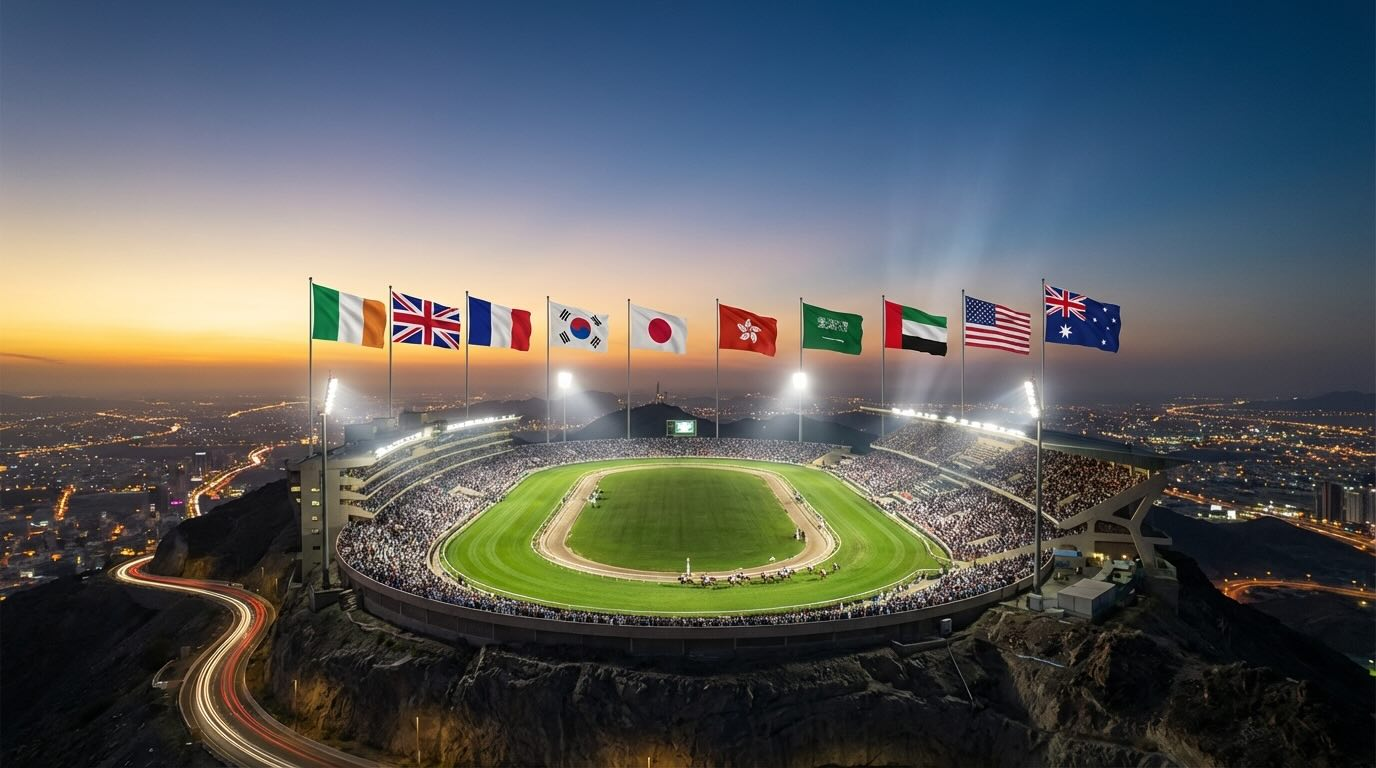
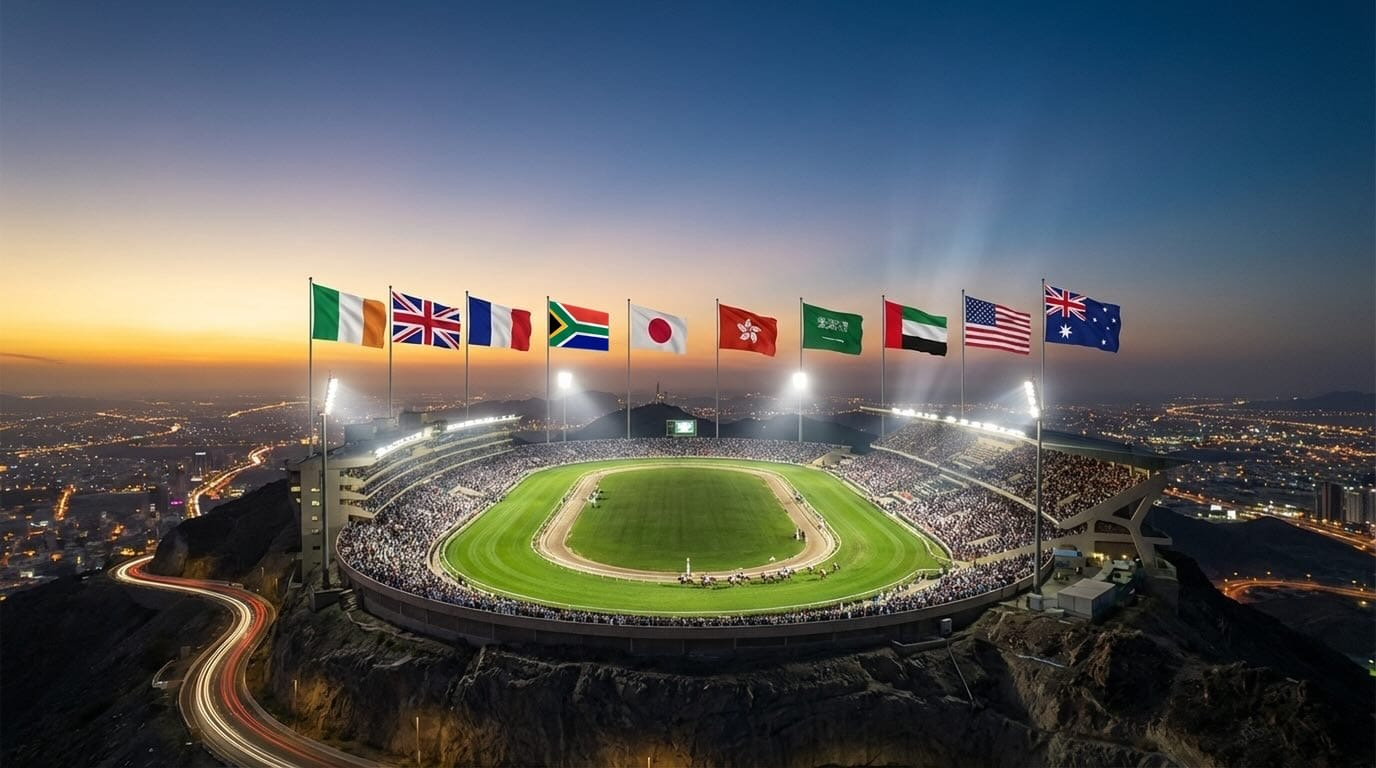
Swap homepage hero image; use hello@galoprix.com on test pages
- Galoprix.jpeg replaced with the updated stadium image (South Africa
  flag replaces South Korea). Used by the homepage hero and share cards.
- investor-test and investor-test-2: every darragh@galoprix.com link and
  label is now hello@galoprix.com. /investors is unchanged.

Claude-Session: https://claude.ai/code/session_016PRqPxt2KLjNQjbk8w6j8T

Changed region(s): [[0.375, 0.375, 0.4688, 0.4688], [0.75, 0.375, 0.7812, 0.4062], [0.2812, 0.375, 0.3125, 0.4062]]

diff --git a/investor-test-2/index.html b/investor-test-2/index.html
@@ -201,14 +201,14 @@ a{color:#92F8BA;text-decoration:none}a:hover{color:#C9FCDD}
       <button type="submit">Enter</button>
     </form>
     <p class="gate-error" id="gate-error" hidden>That access code didn't match. Please try again.</p>
-    <p class="gate-help">Need access? <a href="mailto:darragh@galoprix.com">darragh@galoprix.com</a></p>
+    <p class="gate-help">Need access? <a href="mailto:hello@galoprix.com">hello@galoprix.com</a></p>
   </div>
 </div>
 
 <div class="site">
 
 
-<div style="background: rgb(1, 1, 37); color: rgb(255, 255, 255); font-family: Sora, system-ui, sans-serif; line-height: 1.5;"><div style="max-width: 1160px; margin: 0px auto; padding: 0px 32px; box-sizing: border-box;"><header style="display: flex; flex-wrap: wrap; justify-content: space-between; align-items: center; gap: 12px 24px; padding: 24px 0px;"><div style="font-family: Boldonse, Sora, sans-serif; font-size: 16px; letter-spacing: 0.04em;">GALOPRIX</div><div style="display: flex; align-items: center; gap: 24px; font-size: 13px;"><span style="color: rgb(180, 186, 208);">Session active</span><a href="#" class="req" id="logout">Log out</a></div></header><section style="padding: 72px 0px 56px;"><div style="font-size: 13px; font-weight: 600; letter-spacing: 0.14em; text-transform: uppercase; color: rgb(146, 248, 186);">Investor Data Room</div><h1 style="margin: 20px 0px 0px; font-family: Boldonse, Sora, sans-serif; font-weight: 400; font-size: clamp(28px, 4.4vw, 52px); line-height: 1.5; max-width: 900px;">The investment case for a ten-nation racing championship.</h1><p style="margin: 28px 0px 0px; max-width: 680px; font-size: 16px; font-weight: 300; color: rgb(180, 186, 208);">This data room is confidential and is shared under NDA with qualified investors. The seven core documents are open below, and supporting documents and detailed models are available on request.</p><div style="display: flex; flex-wrap: wrap; gap: 16px 56px; margin-top: 44px; align-items: flex-end;"><div><div style="font-size: 40px; font-weight: 600; color: rgb(146, 248, 186); line-height: 1;">7</div><div style="font-size: 13px; color: rgb(180, 186, 208); margin-top: 8px;">Core documents</div></div><div><div style="font-size: 40px; font-weight: 600; line-height: 1;">21</div><div style="font-size: 13px; color: rgb(180, 186, 208); margin-top: 8px;">Available on request</div></div><div style="margin-left: auto; font-size: 13px;"><span style="color: rgb(180, 186, 208);">Contact </span><a href="mailto:darragh@galoprix.com" class="req">darragh@galoprix.com</a></div></div><nav aria-label="Jump to" style="display: flex; flex-wrap: wrap; gap: 12px; margin-top: 36px;"><a href="#core" style="display: inline-flex; align-items: center; min-height: 44px; padding: 0px 18px; border: 1px solid rgb(42, 47, 107); border-radius: 999px; font-size: 13px; font-weight: 600;">01 Core Documents</a><a href="#on-request" style="display: inline-flex; align-items: center; min-height: 44px; padding: 0px 18px; border: 1px solid rgb(42, 47, 107); border-radius: 999px; font-size: 13px; font-weight: 600;">02 On Request</a></nav></section><section id="core" style="padding: 40px 0px 24px;"><div style="font-size: 13px; font-weight: 600; letter-spacing: 0.14em; text-transform: uppercase; color: rgb(146, 248, 186);">01</div><h2 style="margin: 8px 0px 0px; font-size: 30px; font-weight: 600;">Core Documents</h2><p style="margin: 10px 0px 28px; max-width: 620px; font-size: 15px; font-weight: 300; color: rgb(180, 186, 208);">These seven documents set out the case for Galoprix and are best read in the order shown.</p><div class="doc"><div style="flex: 0 0 64px; font-size: 28px; font-weight: 600; color: rgb(146, 248, 186);">01</div><div style="flex: 1 1 380px; min-width: 0px;"><div style="font-size: 19px; font-weight: 600;">Executive Teaser</div><div style="font-size: 14px; font-weight: 300; color: rgb(180, 186, 208); margin-top: 4px;">A short introduction to Galoprix, why the timing is right and what the seed round is raising.</div></div><div style="font-size: 12px; font-weight: 600; letter-spacing: 0.1em; color: rgb(180, 186, 208);">PDF</div><span class="open pending" aria-disabled="true">Link pending</span></div><div class="doc"><div style="flex: 0 0 64px; font-size: 28px; font-weight: 600; color: rgb(146, 248, 186);">02</div><div style="flex: 1 1 380px; min-width: 0px;"><div style="font-size: 19px; font-weight: 600;">Investor Presentation</div><div style="font-size: 14px; font-weight: 300; color: rgb(180, 186, 208); margin-top: 4px;">The full pitch, from the gap in racing and the championship format to the ownership model and launch plan.</div></div><div style="font-size: 12px; font-weight: 600; letter-spacing: 0.1em; color: rgb(180, 186, 208);">PDF</div><span class="open pending" aria-disabled="true">Link pending</span></div><div class="doc"><div style="flex: 0 0 64px; font-size: 28px; font-weight: 600; color: rgb(146, 248, 186);">03</div><div style="flex: 1 1 380px; min-width: 0px;"><div style="font-size: 19px; font-weight: 600;">Team &amp; Advisers</div><div style="font-size: 14px; font-weight: 300; color: rgb(180, 186, 208); margin-top: 4px;">The founder and advisers behind Galoprix, and the experience each of them brings.</div></div><div style="font-size: 12px; font-weight: 600; letter-spacing: 0.1em; color: rgb(180, 186, 208);">PDF</div><span class="open pending" aria-disabled="true">Link pending</span></div><div class="doc"><div style="flex: 0 0 64px; font-size: 28px; font-weight: 600; color: rgb(146, 248, 186);">04</div><div style="flex: 1 1 380px; min-width: 0px;"><div style="font-size: 19px; font-weight: 600;">Financial Snapshot</div><div style="font-size: 14px; font-weight: 300; color: rgb(180, 186, 208); margin-top: 4px;">The first five seasons in figures, showing how the plan is funded, where revenue comes from and what the championship costs to run.</div></div><div style="font-size: 12px; font-weight: 600; letter-spacing: 0.1em; color: rgb(180, 186, 208);">PDF</div><span class="open pending" aria-disabled="true">Link pending</span></div><div class="doc"><div style="flex: 0 0 64px; font-size: 28px; font-weight: 600; color: rgb(146, 248, 186);">05</div><div style="flex: 1 1 380px; min-width: 0px;"><div style="font-size: 19px; font-weight: 600;">Use of Funds</div><div style="font-size: 14px; font-weight: 300; color: rgb(180, 186, 208); margin-top: 4px;">How the seed capital will be spent and the milestones it is expected to reach.</div></div><div style="font-size: 12px; font-weight: 600; letter-spacing: 0.1em; color: rgb(180, 186, 208);">PDF</div><span class="open pending" aria-disabled="true">Link pending</span></div><div class="doc"><div style="flex: 0 0 64px; font-size: 28px; font-weight: 600; color: rgb(146, 248, 186);">06</div><div style="flex: 1 1 380px; min-width: 0px;"><div style="font-size: 19px; font-weight: 600;">Team Ownership Model</div><div style="font-size: 14px; font-weight: 300; color: rgb(180, 186, 208); margin-top: 4px;">How Nation Team ownership works, including what an owner pays and what they receive.</div></div><div style="font-size: 12px; font-weight: 600; letter-spacing: 0.1em; color: rgb(180, 186, 208);">PDF</div><span class="open pending" aria-disabled="true">Link pending</span></div><div class="doc" style="border-bottom: 1px solid rgb(28, 32, 80);"><div style="flex: 0 0 64px; font-size: 28px; font-weight: 600; color: rgb(146, 248, 186);">07</div><div style="flex: 1 1 380px; min-width: 0px;"><div style="font-size: 19px; font-weight: 600;">Investor FAQ</div><div style="font-size: 14px; font-weight: 300; color: rgb(180, 186, 208); margin-top: 4px;">Answers to the questions an investor is likely to ask during diligence.</div></div><div style="font-size: 12px; font-weight: 600; letter-spacing: 0.1em; color: rgb(180, 186, 208);">PDF</div><span class="open pending" aria-disabled="true">Link pending</span></div></section><section id="on-request" style="padding: 64px 0px 40px;"><div style="font-size: 13px; font-weight: 600; letter-spacing: 0.14em; text-transform: uppercase; color: rgb(146, 248, 186);">02</div><h2 style="margin: 8px 0px 0px; font-size: 30px; font-weight: 600;">On Request</h2><p style="margin: 10px 0px 32px; max-width: 620px; font-size: 15px; font-weight: 300; color: rgb(180, 186, 208);">Supporting documents and detailed models are shared individually with qualified investors. Request any item below and we will send it to you.</p><div style="display: grid; grid-template-columns: repeat(auto-fit, minmax(300px, 1fr)); gap: 24px; align-items: start;"><div style="background: rgb(8, 10, 51); border-radius: 14px; padding: 24px 24px 8px;"><h3 style="margin: 0px 0px 16px; font-size: 13px; font-weight: 600; letter-spacing: 0.1em; text-transform: uppercase; color: rgb(146, 248, 186);">Financial model</h3><div class="row"><span>Financial Model. Seed Summary</span><a href="mailto:darragh@galoprix.com?subject=Data%20Room%20request%3A%20Financial%20Model.%20Seed%20Summary" class="req">Request</a></div><h3 style="margin: 28px 0px 16px; font-size: 13px; font-weight: 600; letter-spacing: 0.1em; text-transform: uppercase; color: rgb(146, 248, 186);">The business</h3><div class="row"><span>Business Model</span><a href="mailto:darragh@galoprix.com?subject=Data%20Room%20request%3A%20Business%20Model" class="req">Request</a></div><div class="row"><span>Roadmap to Launch</span><a href="mailto:darragh@galoprix.com?subject=Data%20Room%20request%3A%20Roadmap%20to%20Launch" class="req">Request</a></div><div class="row"><span>Owner Prize Structure</span><a href="mailto:darragh@galoprix.com?subject=Data%20Room%20request%3A%20Owner%20Prize%20Structure" class="req">Request</a></div><div class="row"><span>Athlete Prize Structure</span><a href="mailto:darragh@galoprix.com?subject=Data%20Room%20request%3A%20Athlete%20Prize%20Structure" class="req">Request</a></div></div><div style="background: rgb(8, 10, 51); border-radius: 14px; padding: 24px 24px 8px;"><h3 style="margin: 0px 0px 16px; font-size: 13px; font-weight: 600; letter-spacing: 0.1em; text-transform: uppercase; color: rgb(146, 248, 186);">Market, fans &amp; welfare</h3><div class="row"><span>Fan Engagement &amp; Brand Strategy</span><a href="mailto:darragh@galoprix.com?subject=Data%20Room%20request%3A%20Fan%20Engagement%20%26%20Brand%20Strategy" class="req">Request</a></div><div class="row"><span>Macro Environment Brief</span><a href="mailto:darragh@galoprix.com?subject=Data%20Room%20request%3A%20Macro%20Environment%20Brief" class="req">Request</a></div><div class="row"><span>Competitive Landscape</span><a href="mailto:darragh@galoprix.com?subject=Data%20Room%20request%3A%20Competitive%20Landscape" class="req">Request</a></div><div class="row"><span>Welfare Framework</span><a href="mailto:darragh@galoprix.com?subject=Data%20Room%20request%3A%20Welfare%20Framework" class="req">Request</a></div><h3 style="margin: 28px 0px 16px; font-size: 13px; font-weight: 600; letter-spacing: 0.1em; text-transform: uppercase; color: rgb(146, 248, 186);">Wagering, IP &amp; risk</h3><div class="row"><span>Wagering Architecture &amp; Data Rights</span><a href="mailto:darragh@galoprix.com?subject=Data%20Room%20request%3A%20Wagering%20Architecture%20%26%20Data%20Rights" class="req">Request</a></div><div class="row"><span>AML &amp; Responsible Gambling Framework</span><a href="mailto:darragh@galoprix.com?subject=Data%20Room%20request%3A%20AML%20%26%20Responsible%20Gambling%20Framework" class="req">Request</a></div><div class="row"><span>IP Protection Strategy</span><a href="mailto:darragh@galoprix.com?subject=Data%20Room%20request%3A%20IP%20Protection%20Strategy" class="req">Request</a></div><div class="row"><span>Risk Register</span><a href="mailto:darragh@galoprix.com?subject=Data%20Room%20request%3A%20Risk%20Register" class="req">Request</a></div></div><div style="background: rgb(8, 10, 51); border-radius: 14px; padding: 24px 24px 8px;"><h3 style="margin: 0px 0px 16px; font-size: 13px; font-weight: 600; letter-spacing: 0.1em; text-transform: uppercase; color: rgb(146, 248, 186);">Detailed models &amp; analysis</h3><div class="row"><span>Nation Scoring Matrix</span><a href="mailto:darragh@galoprix.com?subject=Data%20Room%20request%3A%20Nation%20Scoring%20Matrix" class="req">Request</a></div><div class="row"><span>Venue Analysis &amp; Weighting</span><a href="mailto:darragh@galoprix.com?subject=Data%20Room%20request%3A%20Venue%20Analysis%20%26%20Weighting" class="req">Request</a></div><div class="row"><span>Fixture Acquisition Strategy</span><a href="mailto:darragh@galoprix.com?subject=Data%20Room%20request%3A%20Fixture%20Acquisition%20Strategy" class="req">Request</a></div><div class="row"><span>Pattern Race Elevation Roadmap</span><a href="mailto:darragh@galoprix.com?subject=Data%20Room%20request%3A%20Pattern%20Race%20Elevation%20Roadmap" class="req">Request</a></div><div class="row"><span>Investor Operational Matrix (all nations)</span><a href="mailto:darragh@galoprix.com?subject=Data%20Room%20request%3A%20Investor%20Operational%20Matrix%20(all%20nations)" class="req">Request</a></div><div class="row"><span>Sponsorship Revenue Model</span><a href="mailto:darragh@galoprix.com?subject=Data%20Room%20request%3A%20Sponsorship%20Revenue%20Model" class="req">Request</a></div><div class="row"><span>Wagering Revenue Model</span><a href="mailto:darragh@galoprix.com?subject=Data%20Room%20request%3A%20Wagering%20Revenue%20Model" class="req">Request</a></div><div class="row"><span>Jockey Eligibility Framework</span><a href="mailto:darragh@galoprix.com?subject=Data%20Room%20request%3A%20Jockey%20Eligibility%20Framework" class="req">Request</a></div></div></div></section><footer style="display: flex; flex-wrap: wrap; gap: 32px 64px; padding: 48px 0px 56px; margin-top: 40px; border-top: 1px solid rgb(28, 32, 80); font-size: 13px; font-weight: 300; color: rgb(180, 186, 208);"><div style="flex: 2 1 360px; min-width: 0px;"><div style="font-weight: 600; color: rgb(255, 255, 255); margin-bottom: 8px;">Confidentiality</div>The contents of this data room are confidential and are provided solely for the purpose of evaluating a potential investment in Galoprix Global Ventures Limited. Materials may not be reproduced, redistributed or disclosed to any third party without prior written consent.</div><div style="flex: 1 1 200px;"><div style="font-weight: 600; color: rgb(255, 255, 255); margin-bottom: 8px;">Entity</div>Galoprix Global Ventures Limited<br>Registered in England &amp; Wales<br>Co. No. 17103998<br>London</div><div style="flex: 1 1 200px;"><div style="font-weight: 600; color: rgb(255, 255, 255); margin-bottom: 8px;">Contact</div><a href="mailto:darragh@galoprix.com">darragh@galoprix.com</a><div style="margin-top: 20px;">© 2026 Galoprix Global Ventures Limited. All rights reserved.</div><div>Built By Porter Wills</div></div></footer></div></div>
+<div style="background: rgb(1, 1, 37); color: rgb(255, 255, 255); font-family: Sora, system-ui, sans-serif; line-height: 1.5;"><div style="max-width: 1160px; margin: 0px auto; padding: 0px 32px; box-sizing: border-box;"><header style="display: flex; flex-wrap: wrap; justify-content: space-between; align-items: center; gap: 12px 24px; padding: 24px 0px;"><div style="font-family: Boldonse, Sora, sans-serif; font-size: 16px; letter-spacing: 0.04em;">GALOPRIX</div><div style="display: flex; align-items: center; gap: 24px; font-size: 13px;"><span style="color: rgb(180, 186, 208);">Session active</span><a href="#" class="req" id="logout">Log out</a></div></header><section style="padding: 72px 0px 56px;"><div style="font-size: 13px; font-weight: 600; letter-spacing: 0.14em; text-transform: uppercase; color: rgb(146, 248, 186);">Investor Data Room</div><h1 style="margin: 20px 0px 0px; font-family: Boldonse, Sora, sans-serif; font-weight: 400; font-size: clamp(28px, 4.4vw, 52px); line-height: 1.5; max-width: 900px;">The investment case for a ten-nation racing championship.</h1><p style="margin: 28px 0px 0px; max-width: 680px; font-size: 16px; font-weight: 300; color: rgb(180, 186, 208);">This data room is confidential and is shared under NDA with qualified investors. The seven core documents are open below, and supporting documents and detailed models are available on request.</p><div style="display: flex; flex-wrap: wrap; gap: 16px 56px; margin-top: 44px; align-items: flex-end;"><div><div style="font-size: 40px; font-weight: 600; color: rgb(146, 248, 186); line-height: 1;">7</div><div style="font-size: 13px; color: rgb(180, 186, 208); margin-top: 8px;">Core documents</div></div><div><div style="font-size: 40px; font-weight: 600; line-height: 1;">21</div><div style="font-size: 13px; color: rgb(180, 186, 208); margin-top: 8px;">Available on request</div></div><div style="margin-left: auto; font-size: 13px;"><span style="color: rgb(180, 186, 208);">Contact </span><a href="mailto:hello@galoprix.com" class="req">hello@galoprix.com</a></div></div><nav aria-label="Jump to" style="display: flex; flex-wrap: wrap; gap: 12px; margin-top: 36px;"><a href="#core" style="display: inline-flex; align-items: center; min-height: 44px; padding: 0px 18px; border: 1px solid rgb(42, 47, 107); border-radius: 999px; font-size: 13px; font-weight: 600;">01 Core Documents</a><a href="#on-request" style="display: inline-flex; align-items: center; min-height: 44px; padding: 0px 18px; border: 1px solid rgb(42, 47, 107); border-radius: 999px; font-size: 13px; font-weight: 600;">02 On Request</a></nav></section><section id="core" style="padding: 40px 0px 24px;"><div style="font-size: 13px; font-weight: 600; letter-spacing: 0.14em; text-transform: uppercase; color: rgb(146, 248, 186);">01</div><h2 style="margin: 8px 0px 0px; font-size: 30px; font-weight: 600;">Core Documents</h2><p style="margin: 10px 0px 28px; max-width: 620px; font-size: 15px; font-weight: 300; color: rgb(180, 186, 208);">These seven documents set out the case for Galoprix and are best read in the order shown.</p><div class="doc"><div style="flex: 0 0 64px; font-size: 28px; font-weight: 600; color: rgb(146, 248, 186);">01</div><div style="flex: 1 1 380px; min-width: 0px;"><div style="font-size: 19px; font-weight: 600;">Executive Teaser</div><div style="font-size: 14px; font-weight: 300; color: rgb(180, 186, 208); margin-top: 4px;">A short introduction to Galoprix, why the timing is right and what the seed round is raising.</div></div><div style="font-size: 12px; font-weight: 600; letter-spacing: 0.1em; color: rgb(180, 186, 208);">PDF</div><span class="open pending" aria-disabled="true">Link pending</span></div><div class="doc"><div style="flex: 0 0 64px; font-size: 28px; font-weight: 600; color: rgb(146, 248, 186);">02</div><div style="flex: 1 1 380px; min-width: 0px;"><div style="font-size: 19px; font-weight: 600;">Investor Presentation</div><div style="font-size: 14px; font-weight: 300; color: rgb(180, 186, 208); margin-top: 4px;">The full pitch, from the gap in racing and the championship format to the ownership model and launch plan.</div></div><div style="font-size: 12px; font-weight: 600; letter-spacing: 0.1em; color: rgb(180, 186, 208);">PDF</div><span class="open pending" aria-disabled="true">Link pending</span></div><div class="doc"><div style="flex: 0 0 64px; font-size: 28px; font-weight: 600; color: rgb(146, 248, 186);">03</div><div style="flex: 1 1 380px; min-width: 0px;"><div style="font-size: 19px; font-weight: 600;">Team &amp; Advisers</div><div style="font-size: 14px; font-weight: 300; color: rgb(180, 186, 208); margin-top: 4px;">The founder and advisers behind Galoprix, and the experience each of them brings.</div></div><div style="font-size: 12px; font-weight: 600; letter-spacing: 0.1em; color: rgb(180, 186, 208);">PDF</div><span class="open pending" aria-disabled="true">Link pending</span></div><div class="doc"><div style="flex: 0 0 64px; font-size: 28px; font-weight: 600; color: rgb(146, 248, 186);">04</div><div style="flex: 1 1 380px; min-width: 0px;"><div style="font-size: 19px; font-weight: 600;">Financial Snapshot</div><div style="font-size: 14px; font-weight: 300; color: rgb(180, 186, 208); margin-top: 4px;">The first five seasons in figures, showing how the plan is funded, where revenue comes from and what the championship costs to run.</div></div><div style="font-size: 12px; font-weight: 600; letter-spacing: 0.1em; color: rgb(180, 186, 208);">PDF</div><span class="open pending" aria-disabled="true">Link pending</span></div><div class="doc"><div style="flex: 0 0 64px; font-size: 28px; font-weight: 600; color: rgb(146, 248, 186);">05</div><div style="flex: 1 1 380px; min-width: 0px;"><div style="font-size: 19px; font-weight: 600;">Use of Funds</div><div style="font-size: 14px; font-weight: 300; color: rgb(180, 186, 208); margin-top: 4px;">How the seed capital will be spent and the milestones it is expected to reach.</div></div><div style="font-size: 12px; font-weight: 600; letter-spacing: 0.1em; color: rgb(180, 186, 208);">PDF</div><span class="open pending" aria-disabled="true">Link pending</span></div><div class="doc"><div style="flex: 0 0 64px; font-size: 28px; font-weight: 600; color: rgb(146, 248, 186);">06</div><div style="flex: 1 1 380px; min-width: 0px;"><div style="font-size: 19px; font-weight: 600;">Team Ownership Model</div><div style="font-size: 14px; font-weight: 300; color: rgb(180, 186, 208); margin-top: 4px;">How Nation Team ownership works, including what an owner pays and what they receive.</div></div><div style="font-size: 12px; font-weight: 600; letter-spacing: 0.1em; color: rgb(180, 186, 208);">PDF</div><span class="open pending" aria-disabled="true">Link pending</span></div><div class="doc" style="border-bottom: 1px solid rgb(28, 32, 80);"><div style="flex: 0 0 64px; font-size: 28px; font-weight: 600; color: rgb(146, 248, 186);">07</div><div style="flex: 1 1 380px; min-width: 0px;"><div style="font-size: 19px; font-weight: 600;">Investor FAQ</div><div style="font-size: 14px; font-weight: 300; color: rgb(180, 186, 208); margin-top: 4px;">Answers to the questions an investor is likely to ask during diligence.</div></div><div style="font-size: 12px; font-weight: 600; letter-spacing: 0.1em; color: rgb(180, 186, 208);">PDF</div><span class="open pending" aria-disabled="true">Link pending</span></div></section><section id="on-request" style="padding: 64px 0px 40px;"><div style="font-size: 13px; font-weight: 600; letter-spacing: 0.14em; text-transform: uppercase; color: rgb(146, 248, 186);">02</div><h2 style="margin: 8px 0px 0px; font-size: 30px; font-weight: 600;">On Request</h2><p style="margin: 10px 0px 32px; max-width: 620px; font-size: 15px; font-weight: 300; color: rgb(180, 186, 208);">Supporting documents and detailed models are shared individually with qualified investors. Request any item below and we will send it to you.</p><div style="display: grid; grid-template-columns: repeat(auto-fit, minmax(300px, 1fr)); gap: 24px; align-items: start;"><div style="background: rgb(8, 10, 51); border-radius: 14px; padding: 24px 24px 8px;"><h3 style="margin: 0px 0px 16px; font-size: 13px; font-weight: 600; letter-spacing: 0.1em; text-transform: uppercase; color: rgb(146, 248, 186);">Financial model</h3><div class="row"><span>Financial Model. Seed Summary</span><a href="mailto:hello@galoprix.com?subject=Data%20Room%20request%3A%20Financial%20Model.%20Seed%20Summary" class="req">Request</a></div><h3 style="margin: 28px 0px 16px; font-size: 13px; font-weight: 600; letter-spacing: 0.1em; text-transform: uppercase; color: rgb(146, 248, 186);">The business</h3><div class="row"><span>Business Model</span><a href="mailto:hello@galoprix.com?subject=Data%20Room%20request%3A%20Business%20Model" class="req">Request</a></div><div class="row"><span>Roadmap to Launch</span><a href="mailto:hello@galoprix.com?subject=Data%20Room%20request%3A%20Roadmap%20to%20Launch" class="req">Request</a></div><div class="row"><span>Owner Prize Structure</span><a href="mailto:hello@galoprix.com?subject=Data%20Room%20request%3A%20Owner%20Prize%20Structure" class="req">Request</a></div><div class="row"><span>Athlete Prize Structure</span><a href="mailto:hello@galoprix.com?subject=Data%20Room%20request%3A%20Athlete%20Prize%20Structure" class="req">Request</a></div></div><div style="background: rgb(8, 10, 51); border-radius: 14px; padding: 24px 24px 8px;"><h3 style="margin: 0px 0px 16px; font-size: 13px; font-weight: 600; letter-spacing: 0.1em; text-transform: uppercase; color: rgb(146, 248, 186);">Market, fans &amp; welfare</h3><div class="row"><span>Fan Engagement &amp; Brand Strategy</span><a href="mailto:hello@galoprix.com?subject=Data%20Room%20request%3A%20Fan%20Engagement%20%26%20Brand%20Strategy" class="req">Request</a></div><div class="row"><span>Macro Environment Brief</span><a href="mailto:hello@galoprix.com?subject=Data%20Room%20request%3A%20Macro%20Environment%20Brief" class="req">Request</a></div><div class="row"><span>Competitive Landscape</span><a href="mailto:hello@galoprix.com?subject=Data%20Room%20request%3A%20Competitive%20Landscape" class="req">Request</a></div><div class="row"><span>Welfare Framework</span><a href="mailto:hello@galoprix.com?subject=Data%20Room%20request%3A%20Welfare%20Framework" class="req">Request</a></div><h3 style="margin: 28px 0px 16px; font-size: 13px; font-weight: 600; letter-spacing: 0.1em; text-transform: uppercase; color: rgb(146, 248, 186);">Wagering, IP &amp; risk</h3><div class="row"><span>Wagering Architecture &amp; Data Rights</span><a href="mailto:hello@galoprix.com?subject=Data%20Room%20request%3A%20Wagering%20Architecture%20%26%20Data%20Rights" class="req">Request</a></div><div class="row"><span>AML &amp; Responsible Gambling Framework</span><a href="mailto:hello@galoprix.com?subject=Data%20Room%20request%3A%20AML%20%26%20Responsible%20Gambling%20Framework" class="req">Request</a></div><div class="row"><span>IP Protection Strategy</span><a href="mailto:hello@galoprix.com?subject=Data%20Room%20request%3A%20IP%20Protection%20Strategy" class="req">Request</a></div><div class="row"><span>Risk Register</span><a href="mailto:hello@galoprix.com?subject=Data%20Room%20request%3A%20Risk%20Register" class="req">Request</a></div></div><div style="background: rgb(8, 10, 51); border-radius: 14px; padding: 24px 24px 8px;"><h3 style="margin: 0px 0px 16px; font-size: 13px; font-weight: 600; letter-spacing: 0.1em; text-transform: uppercase; color: rgb(146, 248, 186);">Detailed models &amp; analysis</h3><div class="row"><span>Nation Scoring Matrix</span><a href="mailto:hello@galoprix.com?subject=Data%20Room%20request%3A%20Nation%20Scoring%20Matrix" class="req">Request</a></div><div class="row"><span>Venue Analysis &amp; Weighting</span><a href="mailto:hello@galoprix.com?subject=Data%20Room%20request%3A%20Venue%20Analysis%20%26%20Weighting" class="req">Request</a></div><div class="row"><span>Fixture Acquisition Strategy</span><a href="mailto:hello@galoprix.com?subject=Data%20Room%20request%3A%20Fixture%20Acquisition%20Strategy" class="req">Request</a></div><div class="row"><span>Pattern Race Elevation Roadmap</span><a href="mailto:hello@galoprix.com?subject=Data%20Room%20request%3A%20Pattern%20Race%20Elevation%20Roadmap" class="req">Request</a></div><div class="row"><span>Investor Operational Matrix (all nations)</span><a href="mailto:hello@galoprix.com?subject=Data%20Room%20request%3A%20Investor%20Operational%20Matrix%20(all%20nations)" class="req">Request</a></div><div class="row"><span>Sponsorship Revenue Model</span><a href="mailto:hello@galoprix.com?subject=Data%20Room%20request%3A%20Sponsorship%20Revenue%20Model" class="req">Request</a></div><div class="row"><span>Wagering Revenue Model</span><a href="mailto:hello@galoprix.com?subject=Data%20Room%20request%3A%20Wagering%20Revenue%20Model" class="req">Request</a></div><div class="row"><span>Jockey Eligibility Framework</span><a href="mailto:hello@galoprix.com?subject=Data%20Room%20request%3A%20Jockey%20Eligibility%20Framework" class="req">Request</a></div></div></div></section><footer style="display: flex; flex-wrap: wrap; gap: 32px 64px; padding: 48px 0px 56px; margin-top: 40px; border-top: 1px solid rgb(28, 32, 80); font-size: 13px; font-weight: 300; color: rgb(180, 186, 208);"><div style="flex: 2 1 360px; min-width: 0px;"><div style="font-weight: 600; color: rgb(255, 255, 255); margin-bottom: 8px;">Confidentiality</div>The contents of this data room are confidential and are provided solely for the purpose of evaluating a potential investment in Galoprix Global Ventures Limited. Materials may not be reproduced, redistributed or disclosed to any third party without prior written consent.</div><div style="flex: 1 1 200px;"><div style="font-weight: 600; color: rgb(255, 255, 255); margin-bottom: 8px;">Entity</div>Galoprix Global Ventures Limited<br>Registered in England &amp; Wales<br>Co. No. 17103998<br>London</div><div style="flex: 1 1 200px;"><div style="font-weight: 600; color: rgb(255, 255, 255); margin-bottom: 8px;">Contact</div><a href="mailto:hello@galoprix.com">hello@galoprix.com</a><div style="margin-top: 20px;">© 2026 Galoprix Global Ventures Limited. All rights reserved.</div><div>Built By Porter Wills</div></div></footer></div></div>
 </div>
 <script>
   const ACCESS_CODE = "G4lopr1x";

diff --git a/investor-test/index.html b/investor-test/index.html
@@ -961,7 +961,7 @@
       <button type="submit">Enter</button>
     </form>
     <p class="gate-error" id="gate-error" hidden>That access code didn't match. Please try again.</p>
-    <p class="gate-help">Need access? <a href="mailto:darragh@galoprix.com">darragh@galoprix.com</a></p>
+    <p class="gate-help">Need access? <a href="mailto:hello@galoprix.com">hello@galoprix.com</a></p>
   </div>
 </div>
 
@@ -1001,7 +1001,7 @@
     <div class="contact-inner">
       <span class="label">Contact</span>
       <span class="contact-item">
-        <a href="mailto:darragh@galoprix.com">darragh@galoprix.com</a>
+        <a href="mailto:hello@galoprix.com">hello@galoprix.com</a>
       </span>
     </div>
   </div>
@@ -1044,7 +1044,7 @@
     <div class="cat-rule"></div>
     <h3 class="req-group">Financial model</h3>
     <div class="req-grid">
-      <a class="req-tile" href="mailto:darragh@galoprix.com?subject=Data%20Room%20request%3A%20Financial%20Model.%20Seed%20Summary">
+      <a class="req-tile" href="mailto:hello@galoprix.com?subject=Data%20Room%20request%3A%20Financial%20Model.%20Seed%20Summary">
         <span class="req-num">01</span>
         <span class="req-name">Financial Model. Seed Summary</span>
         <span class="req-cta">Request <span class="arr" aria-hidden="true">↗</span></span>
@@ -1052,22 +1052,22 @@
     </div>
     <h3 class="req-group">The business</h3>
     <div class="req-grid">
-      <a class="req-tile" href="mailto:darragh@galoprix.com?subject=Data%20Room%20request%3A%20Business%20Model">
+      <a class="req-tile" href="mailto:hello@galoprix.com?subject=Data%20Room%20request%3A%20Business%20Model">
         <span class="req-num">02</span>
         <span class="req-name">Business Model</span>
         <span class="req-cta">Request <span class="arr" aria-hidden="true">↗</span></span>
       </a>
-      <a class="req-tile" href="mailto:darragh@galoprix.com?subject=Data%20Room%20request%3A%20Roadmap%20to%20Launch">
+      <a class="req-tile" href="mailto:hello@galoprix.com?subject=Data%20Room%20request%3A%20Roadmap%20to%20Launch">
         <span class="req-num">03</span>
         <span class="req-name">Roadmap to Launch</span>
         <span class="req-cta">Request <span class="arr" aria-hidden="true">↗</span></span>
       </a>
-      <a class="req-tile" href="mailto:darragh@galoprix.com?subject=Data%20Room%20request%3A%20Owner%20Prize%20Structure">
+      <a class="req-tile" href="mailto:hello@galoprix.com?subject=Data%20Room%20request%3A%20Owner%20Prize%20Structure">
         <span class="req-num">04</span>
         <span class="req-name">Owner Prize Structure</span>
         <span class="req-cta">Request <span class="arr" aria-hidden="true">↗</span></span>
       </a>
-      <a class="req-tile" href="mailto:darragh@galoprix.com?subject=Data%20Room%20request%3A%20Athlete%20Prize%20Structure">
+      <a class="req-tile" href="mailto:hello@galoprix.com?subject=Data%20Room%20request%3A%20Athlete%20Prize%20Structure">
         <span class="req-num">05</span>
         <span class="req-name">Athlete Prize Structure</span>
         <span class="req-cta">Request <span class="arr" aria-hidden="true">↗</span></span>
@@ -1075,22 +1075,22 @@
     </div>
     <h3 class="req-group">Market, fans &amp; welfare</h3>
     <div class="req-grid">
-      <a class="req-tile" href="mailto:darragh@galoprix.com?subject=Data%20Room%20request%3A%20Fan%20Engagement%20%26%20Brand%20Strategy">
+      <a class="req-tile" href="mailto:hello@galoprix.com?subject=Data%20Room%20request%3A%20Fan%20Engagement%20%26%20Brand%20Strategy">
         <span class="req-num">06</span>
         <span class="req-name">Fan Engagement &amp; Brand Strategy</span>
         <span class="req-cta">Request <span class="arr" aria-hidden="true">↗</span></span>
       </a>
-      <a class="req-tile" href="mailto:darragh@galoprix.com?subject=Data%20Room%20request%3A%20Macro%20Environment%20Brief">
+      <a class="req-tile" href="mailto:hello@galoprix.com?subject=Data%20Room%20request%3A%20Macro%20Environment%20Brief">
         <span class="req-num">07</span>
         <span class="req-name">Macro Environment Brief</span>
         <span class="req-cta">Request <span class="arr" aria-hidden="true">↗</span></span>
       </a>
-      <a class="req-tile" href="mailto:darragh@galoprix.com?subject=Data%20Room%20request%3A%20Competitive%20Landscape">
+      <a class="req-tile" href="mailto:hello@galoprix.com?subject=Data%20Room%20request%3A%20Competitive%20Landscape">
         <span class="req-num">08</span>
         <span class="req-name">Competitive Landscape</span>
         <span class="req-cta">Request <span class="arr" aria-hidden="true">↗</span></span>
       </a>
-      <a class="req-tile" href="mailto:darragh@galoprix.com?subject=Data%20Room%20request%3A%20Welfare%20Framework">
+      <a class="req-tile" href="mailto:hello@galoprix.com?subject=Data%20Room%20request%3A%20Welfare%20Framework">
         <span class="req-num">09</span>
         <span class="req-name">Welfare Framework</span>
         <span class="req-cta">Request <span class="arr" aria-hidden="true">↗</span></span>
@@ -1098,22 +1098,22 @@
     </div>
     <h3 class="req-group">Wagering, IP &amp; risk</h3>
     <div class="req-grid">
-      <a class="req-tile" href="mailto:darragh@galoprix.com?subject=Data%20Room%20request%3A%20Wagering%20Architecture%20%26%20Data%20Rights">
+      <a class="req-tile" href="mailto:hello@galoprix.com?subject=Data%20Room%20request%3A%20Wagering%20Architecture%20%26%20Data%20Rights">
         <span class="req-num">10</span>
         <span class="req-name">Wagering Architecture &amp; Data Rights</span>
         <span class="req-cta">Request <span class="arr" aria-hidden="true">↗</span></span>
       </a>
-      <a class="req-tile" href="mailto:darragh@galoprix.com?subject=Data%20Room%20request%3A%20AML%20%26%20Responsible%20Gambling%20Framework">
+      <a class="req-tile" href="mailto:hello@galoprix.com?subject=Data%20Room%20request%3A%20AML%20%26%20Responsible%20Gambling%20Framework">
         <span class="req-num">11</span>
         <span class="req-name">AML &amp; Responsible Gambling Framework</span>
         <span class="req-cta">Request <span class="arr" aria-hidden="true">↗</span></span>
       </a>
-      <a class="req-tile" href="mailto:darragh@galoprix.com?subject=Data%20Room%20request%3A%20IP%20Protection%20Strategy">
+      <a class="req-tile" href="mailto:hello@galoprix.com?subject=Data%20Room%20request%3A%20IP%20Protection%20Strategy">
         <span class="req-num">12</span>
         <span class="req-name">IP Protection Strategy</span>
         <span class="req-cta">Request <span class="arr" aria-hidden="true">↗</span></span>
       </a>
-      <a class="req-tile" href="mailto:darragh@galoprix.com?subject=Data%20Room%20request%3A%20Risk%20Register">
+      <a class="req-tile" href="mailto:hello@galoprix.com?subject=Data%20Room%20request%3A%20Risk%20Register">
         <span class="req-num">13</span>
         <span class="req-name">Risk Register</span>
         <span class="req-cta">Request <span class="arr" aria-hidden="true">↗</span></span>
@@ -1121,42 +1121,42 @@
     </div>
     <h3 class="req-group">Detailed models &amp; analysis</h3>
     <div class="req-grid">
-      <a class="req-tile" href="mailto:darragh@galoprix.com?subject=Data%20Room%20request%3A%20Nation%20Scoring%20Matrix">
+      <a class="req-tile" href="mailto:hello@galoprix.com?subject=Data%20Room%20request%3A%20Nation%20Scoring%20Matrix">
         <span class="req-num">14</span>
         <span class="req-name">Nation Scoring Matrix</span>
         <span class="req-cta">Request <span class="arr" aria-hidden="true">↗</span></span>
       </a>
-      <a class="req-tile" href="mailto:darragh@galoprix.com?subject=Data%20Room%20request%3A%20Venue%20Analysis%20%26%20Weighting">
+      <a class="req-tile" href="mailto:hello@galoprix.com?subject=Data%20Room%20request%3A%20Venue%20Analysis%20%26%20Weighting">
         <span class="req-num">15</span>
         <span class="req-name">Venue Analysis &amp; Weighting</span>
         <span class="req-cta">Request <span class="arr" aria-hidden="true">↗</span></span>
       </a>
-      <a class="req-tile" href="mailto:darragh@galoprix.com?subject=Data%20Room%20request%3A%20Fixture%20Acquisition%20Strategy">
+      <a class="req-tile" href="mailto:hello@galoprix.com?subject=Data%20Room%20request%3A%20Fixture%20Acquisition%20Strategy">
         <span class="req-num">16</span>
         <span class="req-name">Fixture Acquisition Strategy</span>
         <span class="req-cta">Request <span class="arr" aria-hidden="true">↗</span></span>
       </a>
-      <a class="req-tile" href="mailto:darragh@galoprix.com?subject=Data%20Room%20request%3A%20Pattern%20Race%20Elevation%20Roadmap">
+      <a class="req-tile" href="mailto:hello@galoprix.com?subject=Data%20Room%20request%3A%20Pattern%20Race%20Elevation%20Roadmap">
         <span class="req-num">17</span>
         <span class="req-name">Pattern Race Elevation Roadmap</span>
         <span class="req-cta">Request <span class="arr" aria-hidden="true">↗</span></span>
       </a>
-      <a class="req-tile" href="mailto:darragh@galoprix.com?subject=Data%20Room%20request%3A%20Investor%20Operational%20Matrix%20(all%20nations)">
+      <a class="req-tile" href="mailto:hello@galoprix.com?subject=Data%20Room%20request%3A%20Investor%20Operational%20Matrix%20(all%20nations)">
         <span class="req-num">18</span>
         <span class="req-name">Investor Operational Matrix <span class="req-sub">(all nations)</span></span>
         <span class="req-cta">Request <span class="arr" aria-hidden="true">↗</span></span>
       </a>
-      <a class="req-tile" href="mailto:darragh@galoprix.com?subject=Data%20Room%20request%3A%20Sponsorship%20Revenue%20Model">
+      <a class="req-tile" href="mailto:hello@galoprix.com?subject=Data%20Room%20request%3A%20Sponsorship%20Revenue%20Model">
         <span class="req-num">19</span>
         <span class="req-name">Sponsorship Revenue Model</span>
         <span class="req-cta">Request <span class="arr" aria-hidden="true">↗</span></span>
       </a>
-      <a class="req-tile" href="mailto:darragh@galoprix.com?subject=Data%20Room%20request%3A%20Wagering%20Revenue%20Model">
+      <a class="req-tile" href="mailto:hello@galoprix.com?subject=Data%20Room%20request%3A%20Wagering%20Revenue%20Model">
         <span class="req-num">20</span>
         <span class="req-name">Wagering Revenue Model</span>
         <span class="req-cta">Request <span class="arr" aria-hidden="true">↗</span></span>
       </a>
-      <a class="req-tile" href="mailto:darragh@galoprix.com?subject=Data%20Room%20request%3A%20Jockey%20Eligibility%20Framework">
+      <a class="req-tile" href="mailto:hello@galoprix.com?subject=Data%20Room%20request%3A%20Jockey%20Eligibility%20Framework">
         <span class="req-num">21</span>
         <span class="req-name">Jockey Eligibility Framework</span>
         <span class="req-cta">Request <span class="arr" aria-hidden="true">↗</span></span>
@@ -1189,7 +1189,7 @@
       <div>
         <h4>Contact</h4>
         <ul>
-          <li>darragh@galoprix.com</li>
+          <li>hello@galoprix.com</li>
         </ul>
       </div>
     </div>
